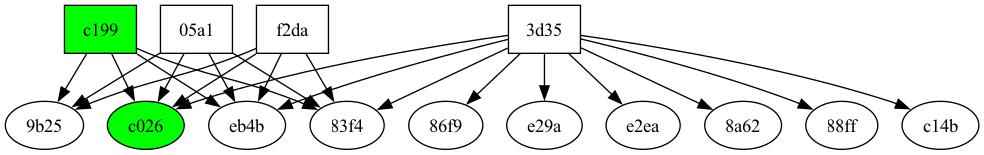
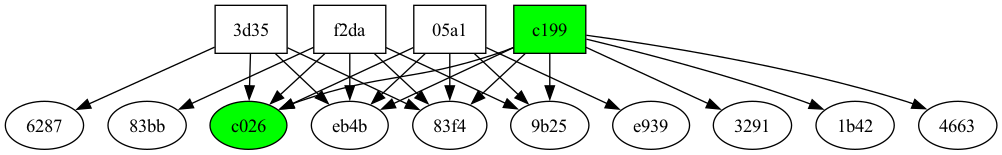
changes

diff --git a/SourceCode/PythonFiles/TerminalOutput/app.py b/SourceCode/PythonFiles/TerminalOutput/app.py
@@ -1,23 +1,42 @@
 # Importing the dataset
 import argparse
-from plot_browser import plot_browser
+from plot_browser import get_browser, get_all_browsers
 import matplotlib.pyplot as plt
 import json
 from plot_reader_time import user_reader_time
-# from plot_countries import plot_countries
+from helper_functions import create_histogram
+from collections import Counter
+from plot_countries import plot_countries, plot_continents
+from also_likes import also_likes
 
-def handle_task_2a():
-    print('Task 2a')
+def handle_task_2a(data, doc_uuid):
+    plot_countries(data, doc_uuid)
 
-def handle_task_2b():
-    print('Task 2b')
+def handle_task_2b(data, doc_uuid):
+    plot_continents(data, doc_uuid)
 
-def handle_task_3a():
-    print('Task 3a')
+
+def handle_task_3a(data):
+     # Get browser counts
+    browser_counts = Counter(get_all_browsers(data))
+
+    # Sort and unpack for plotting
+    sorted_browser_counts = sorted(browser_counts.items(), key=lambda x: x[1], reverse=True)
+    browsers, counts = zip(*sorted_browser_counts)
+
+    # Print results and create histogra,
+    create_histogram(browsers, counts, 'Browser Histogram', 'Browser')
 
 def handle_task_3b(data):
-    print('Task 3b')
-    plot_browser(data)
+    # Get browser counts
+    browser_counts = Counter(get_browser(data))
+
+    # Sort and unpack for plotting
+    sorted_browser_counts = sorted(browser_counts.items(), key=lambda x: x[1], reverse=True)
+    browsers, counts = zip(*sorted_browser_counts)
+
+    # Print results and create histogra,
+    create_histogram(browsers, counts, 'Browser Histogram', 'Browser')
 
 def handle_task_4(data):
     top_readers = user_reader_time(data)
@@ -31,8 +50,17 @@ def handle_task_4(data):
     print("=======================================\n\n")
 
 
-def handle_task_5d():
-    print('Task 5d')
+def handle_task_5d(data, doc_uuid, visitor_uuid = None, sorting_function=None):
+    likes = also_likes(data, doc_uuid, visitor_uuid = None, sorting_function=None)
+    print("\n\n==============================================")
+    print("=   Top 10 Documents also Read by The Visitors   =")
+    print("==================================================")
+    print("=       Document ID      =   Number of Readers   =")
+    print("==================================================")
+    for i in range(10):
+        print("=  {a:16s}   ={p:9d}      =".format(a=likes[i][0], p = likes[i][1]['count']) )
+    print("==================================================\n\n")
+
 
 def handle_task_6():
     print('Task 6')
@@ -62,17 +90,17 @@ def handle_file(file_name):
 
 def handle_tasks(task_id = None, data = None, user_uuid = None, doc_uuid = None):
     if task_id == '2a':
-        handle_task_2a()
+        handle_task_2a(data, doc_uuid)
     elif task_id == '2b':
-        handle_task_2b()
+        handle_task_2b(data, doc_uuid)
     elif task_id == '3a':
-        handle_task_3a()
+        handle_task_3a(data)
     elif task_id == '3b':
         handle_task_3b(data)
     elif task_id == '4':
         handle_task_4(data)
     elif task_id == '5d':
-        handle_task_5d()
+        handle_task_5d(data, doc_uuid, visitor_uuid = None, sorting_function=None)
     elif task_id == '6':
         handle_task_6()
     elif task_id == '7':

diff --git a/SourceCode/PythonFiles/TerminalOutput/also_likes.py b/SourceCode/PythonFiles/TerminalOutput/also_likes.py
@@ -29,7 +29,7 @@ def get_document_by_readers(data, visitor_uuid):
     return all_docs
 
 # Get the top 10 documents that are read by the readers who also read the document
-def also_likes(data, doc_uuid, sorting_function=None):
+def also_likes(data, doc_uuid, visitor_uuid = None, sorting_function=None):
 
     # If the sorting function is not provided, then use the default sorting function
     if sorting_function is None:
@@ -64,5 +64,43 @@ def also_likes(data, doc_uuid, sorting_function=None):
 
     # Return the top 10 documents
     return sorted_docs[:10]
+
+def generate_graph(data, doc_uuid, visitor_uuid = None):
+    # Create a Digraph object
+    dot = Digraph(comment='Also Likes Graph')
+
+    # Highlight the input document and visitor
+    mainDocId = doc_uuid[-4:]
+    mainVisitorId = visitor_uuid[-4:]
+    dot.node(mainDocId, mainDocId, style='filled', fillcolor='green')
+    if visitor_uuid:
+        dot.attr('node', shape='box')
+        dot.node(mainVisitorId, mainVisitorId, style='filled', fillcolor='green')
+        dot.attr('node', shape='ellipse')
+
+    # Get the list of "also likes" documents using the also_likes function
+    also_likes_docs = also_likes(data, doc_uuid)
+    
+    # For each "also likes" document, get the readers and create edges
+    for doc, info in also_likes_docs:
+
+        docId = doc[-4:]
+        # Add the document node
+        dot.node(docId, docId)
+
+        readers = info['readers']
+
+        for reader in readers:
+            readerId = reader[-4:]
+            # Add the reader node
+            dot.attr('node', shape='box')
+            dot.node(readerId, readerId)
+            dot.attr('node', shape='ellipse')
+            # Add an edge from reader to the document
+            dot.edge(readerId, docId)
+
+    # Generate and save the graph
+    print(dot.source) 
+    dot.render('also_likes_graph', format='png', cleanup=True)
 
 

diff --git a/SourceCode/PythonFiles/TerminalOutput/plot_countries.py b/SourceCode/PythonFiles/TerminalOutput/plot_countries.py
@@ -3,13 +3,13 @@ import pycountry_convert as pc
 from collections import Counter
 
 # Function to plot countries for each document
-def plot_countries(doc_id, data):
+def plot_countries(data, doc_id):
     # Filter views for the specific document and check if 'env_doc_id' exists in the record
     filtered_data = [entry['visitor_country'] for entry in data if 'env_doc_id' in entry and entry['env_doc_id'] == doc_id]
     # Count occurrences of each country code
     country_count = Counter(filtered_data)
     # Create a histogram for country codes
-    create_histogram(country_count, 'Histogram of Country Codes', 'Country Code')
+    create_histogram(country_count.keys(), country_count.values(), 'Histogram of Country Codes', 'Country Code')
 
 # This function will use the pycountry_convert library to map country codes to continent names
 def map_country_to_continent(country_code):
@@ -19,11 +19,9 @@ def map_country_to_continent(country_code):
         return continent_name
     except:
         # If the country code is not found, return 'Unknown'
-        return 'Unknown'
-    
+        return 'Unknown'  
 
-
-def plot_continents(doc_id,data):
+def plot_continents(data, doc_id):
     # Filter views for the specific document and check if 'env_doc_id' exists in the record
     filtered_data = [entry['visitor_country'] for entry in data if 'env_doc_id' in entry and entry['env_doc_id'] == doc_id]
     # Map country codes to continents
@@ -31,5 +29,5 @@ def plot_continents(doc_id,data):
     # Count occurrences of each continent
     continent_count = Counter(continent_data)
     # Create a histogram for continents
-    create_histogram(continent_count, 'Histogram of Continents', 'Continent', color='darkgreen')
+    create_histogram(continent_count.keys(), continent_count.values(), 'Histogram of Continents', 'Continent', color='darkgreen')
 

diff --git a/SourceCode/PythonFiles/TerminalOutput/plot_browser.py b/SourceCode/PythonFiles/TerminalOutput/plot_browser.py
@@ -1,9 +1,11 @@
 import matplotlib.pyplot as plt
 from collections import Counter
 from user_agents import parse
+from helper_functions import create_histogram
 
 # Function to get the browser from the user agent
 def get_browser(data):
+     
     browsers = []
     for record in data:
         if 'visitor_useragent' in record:
@@ -16,15 +18,13 @@ def get_browser(data):
             #trim whitespace
             browser_family = browser_family.strip()
             browsers.append(browser_family)
-        return browsers
+    return browsers
 
-def plot_browser(data):
-    # Get browser counts
-    browser_counts = Counter(get_browser(data))
-
-    # Sort and unpack for plotting
-    sorted_browser_counts = sorted(browser_counts.items(), key=lambda x: x[1], reverse=True)
-    browsers, counts = zip(*sorted_browser_counts)
-
-    # CREATE THINGIY HEEREREEEEE
-    #create_histogram(browsers, counts, 'Browser Histogram', 'Browser')
+def get_all_browsers(data):
+    browsers= []
+    for record in data: 
+        #get entire visitor_useragent
+        user_agent = record['visitor_useragent']
+        #plot all browsers
+        browsers.append(user_agent)
+    return browsers    

diff --git a/SourceCode/PythonFiles/TerminalOutput/helper_functions.py b/SourceCode/PythonFiles/TerminalOutput/helper_functions.py
@@ -2,17 +2,21 @@
 import matplotlib.pyplot as plt
 
 # Function to create a histogram
-def create_histogram(data, title, xlabel, ylabel='Number of Views', color='darkblue'):
+def create_histogram(x, y, title, xlabel, ylabel='Visitors', color='blue'):
     # Create a figure
-    plt.figure(figsize=(10, 6))
+    plt.figure(figsize=(10, 8))
     # Create a bar plot
-    plt.bar(data.keys(), data.values(), color=color)
+    plt.bar(x, y, color=color, edgecolor='black')
     # Add a title and axis labels
     plt.title(title)
     # Print x label
     plt.xlabel(xlabel)
     # Print y label
     plt.ylabel(ylabel)
+    # Rotate xticks
+    plt.xticks(rotation=90)
     # Show the plot
     plt.show()
+
+
 
